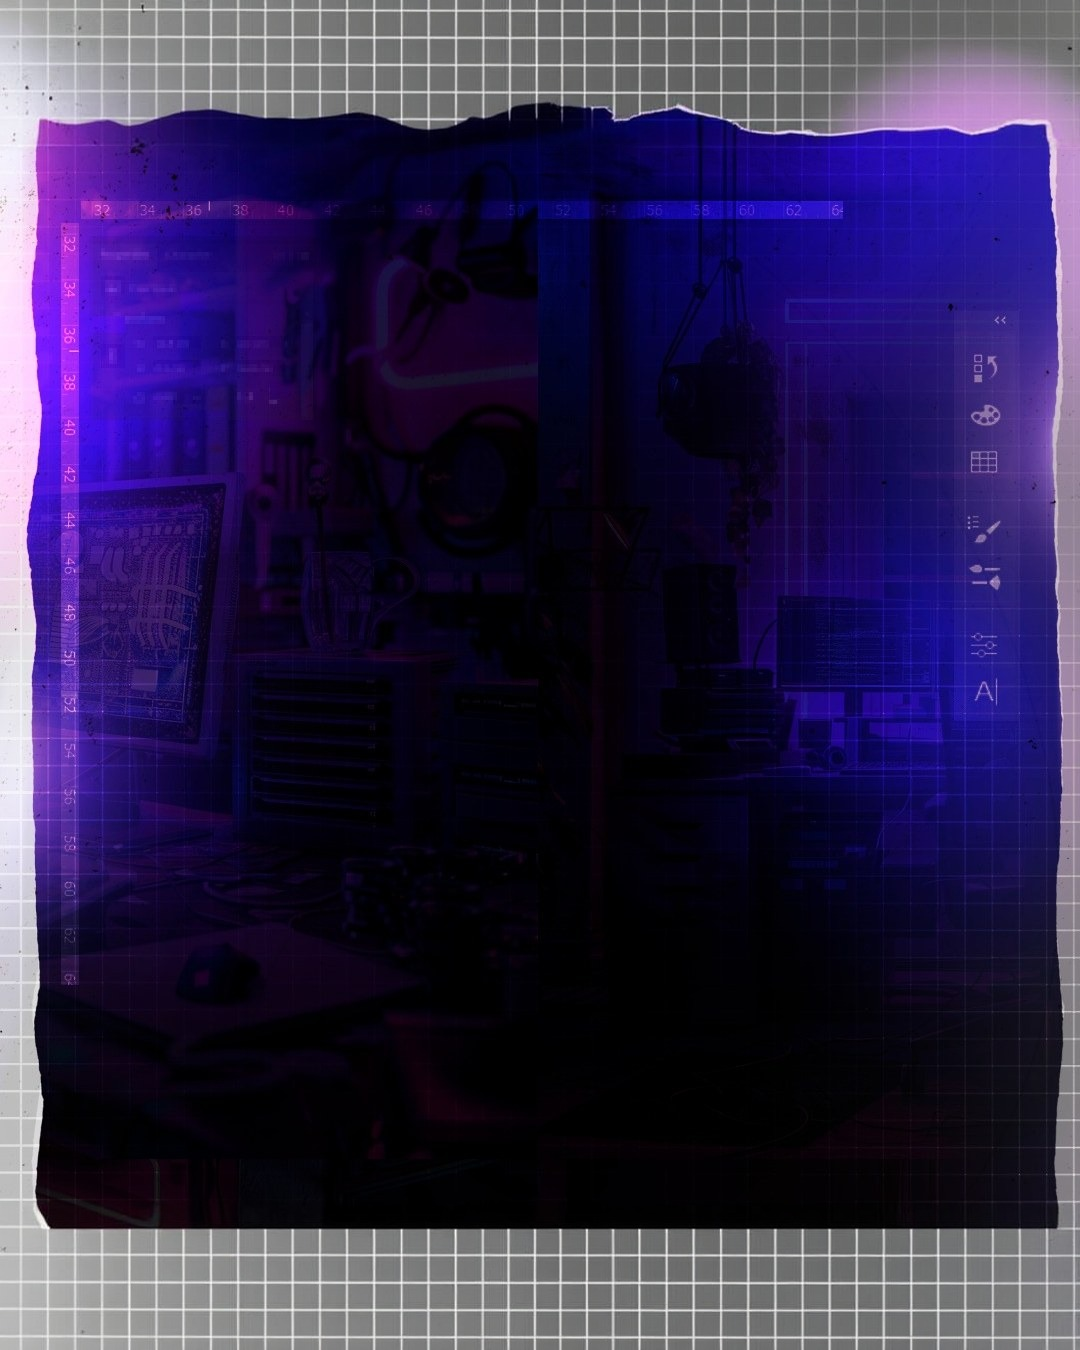
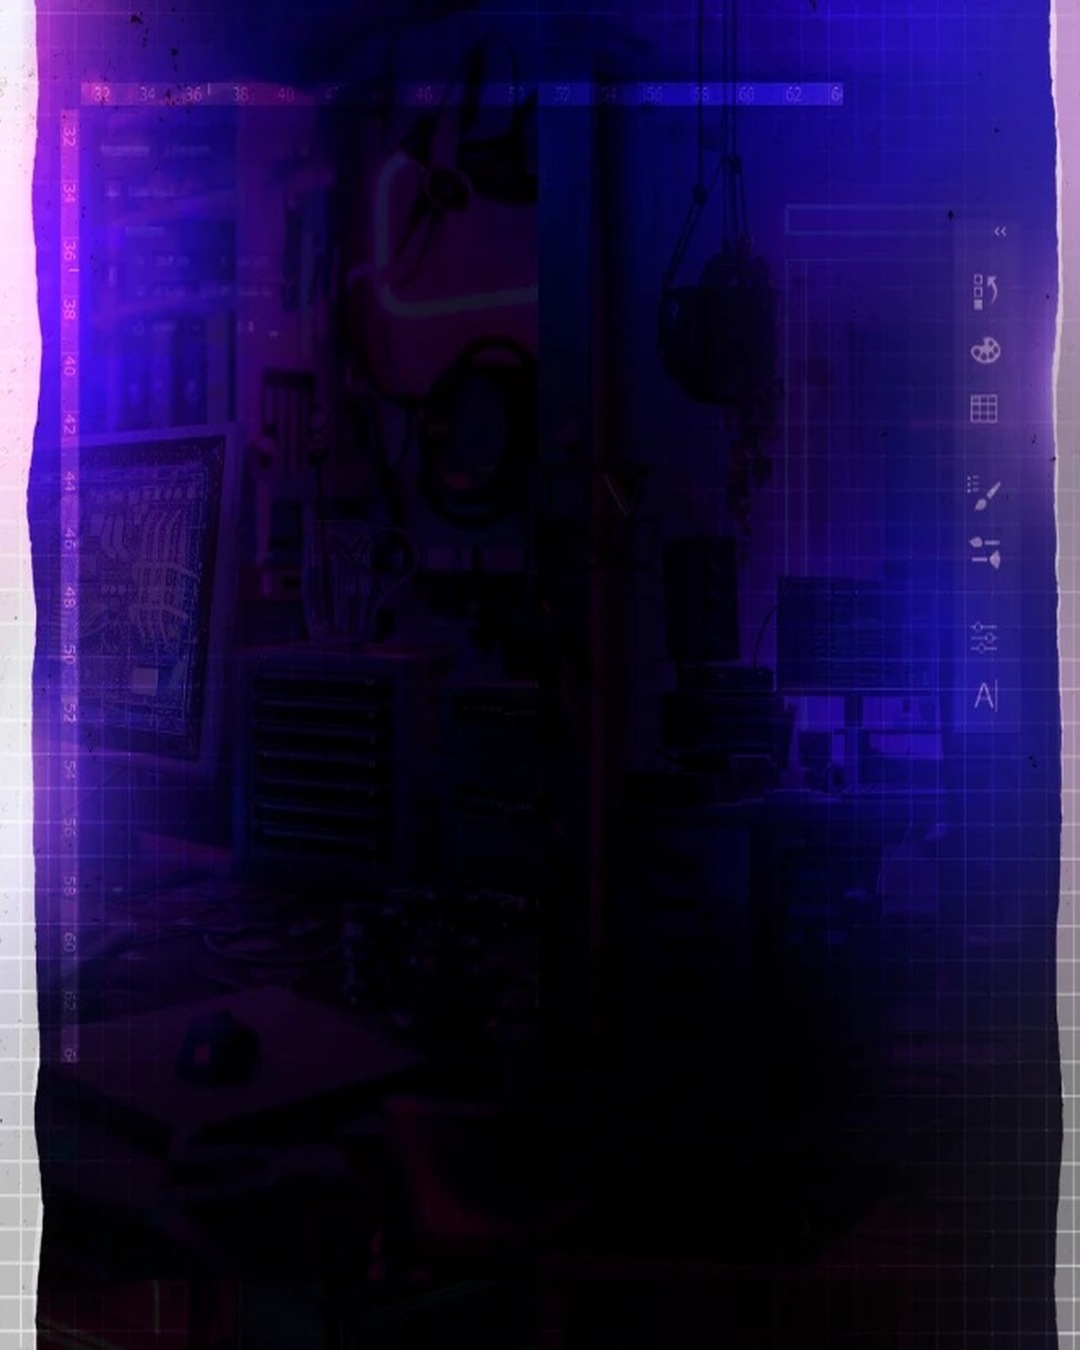
Template 9 · Identidade visual: fundo igual ao do dono (sem faixa inventada), mascote da Seguidores em Alta e atribuição a Sim Intermediações e Seguidores em Alta
- fundos 1 a 3 refeitos a partir do fundo panorâmico enviado pelo dono
- Seguidores em Alta usa o mascote no lugar do robô e do leão
- peça de template corrigida no banco agora substitui a cópia já importada na Biblioteca

Claude-Session: https://claude.ai/code/session_017mkQW885k4H9tbGerhJzi7

diff --git a/server.js b/server.js
@@ -2614,7 +2614,7 @@ const TEMPLATES_CASA = [
     seq: [{ modelo: 'erros-capa', papel: 'capa' }, { modelo: 'erros-par', repetir: true }, { modelo: 'erros-fim', papel: 'fim' }] },
   { id: 'fogo', marcas: ['Marketing Raiz'], nome: '8 · Fogo (dinheiro queimando)', nivel: 'robusto', formatos: ['carrossel'], uso: 'Carrossel de alerta sobre dinheiro perdido, erro caro ou desperdício (anúncio errado, cliente que não paga, gasto escondido): réplica aprovada do kit "Não queime seu dinheiro". Capa com fogo, título em etiquetas brancas e a palavra-explosão vermelha na faixa preta; miolo preto com até 3 itens numerados ou uma frase forte com palavra em *vermelho*; fim com a pergunta grande e o CTA. Sem rodapé de agência; arraste só na capa (decisão do dono). Os fundos e a nota queimando podem ser usados em outros carrosséis quando combinarem com o assunto.',
     seq: [{ modelo: 'fogo-capa', papel: 'capa' }, { modelo: 'fogo-lista', repetir: true }, { modelo: 'fogo-fim', papel: 'fim' }] },
-  { id: 'identidade-roxo', nome: '9 · Identidade visual (roxo)', nivel: 'robusto', formatos: ['carrossel'], uso: 'Carrossel educativo em blocos (conceito explicado em 2 a 6 tópicos curtos): réplica aprovada do kit roxo de meta-design. Capa com chamada de 2 linhas, título espaçado e palavra gigante em itálico, @ da marca e o robô roxo; miolo roxo com 2 blocos por página (título curto + texto de 5 a 7 linhas com **negrito**); fim claro com 2 blocos e a caixa tracejada do CTA. Sem ícones de curtida nem contato. Fonte do texto = a da marca.',
+  { id: 'identidade-roxo', marcas: ['Sim Intermediações', 'Seguidores em Alta'], nome: '9 · Identidade visual (roxo)', nivel: 'robusto', formatos: ['carrossel'], uso: 'Carrossel educativo em blocos (conceito explicado em 2 a 6 tópicos curtos): réplica aprovada do kit roxo de meta-design. Capa com chamada de 2 linhas, título espaçado e palavra gigante em itálico, @ da marca e o robô roxo; miolo roxo com 2 blocos por página (título curto + texto de 5 a 7 linhas com **negrito**); fim claro com 2 blocos e a caixa tracejada do CTA. Sem ícones de curtida nem contato. Fonte do texto = a da marca.',
     seq: [{ modelo: 'idv-capa', papel: 'capa' }, { modelo: 'idv-texto', repetir: true }, { modelo: 'idv-fim', papel: 'fim' }] },
   { id: 'xadrez', nome: '10 · Xadrez (mostarda)', nivel: 'robusto', formatos: ['carrossel'], uso: 'Carrossel de estratégia, segredos, jogo de mercado ou decisões (ex.: "3 segredos que ninguém te conta"): réplica aprovada do kit de agência com peças de xadrez. Capa preta com etiquetas brancas, palavra-explosão mostarda e reis 3D (foto do assunto opcional no alto); miolo bege com até 3 itens numerados ou frase forte; fim preto com prédios e a pergunta/CTA. Sem rodapé de agência; arraste só na capa. As peças de xadrez podem ir para outros carrosséis quando o assunto for estratégia.',
     seq: [{ modelo: 'xadrez-capa', papel: 'capa' }, { modelo: 'xadrez-lista', repetir: true }, { modelo: 'xadrez-fim', papel: 'fim' }] },
@@ -4680,7 +4680,10 @@ const TPL_PASTAS = { 'tpl-erros': 'Lista de erros', 'tpl-fogo': 'Fogo (dinheiro 
 for (const [pasta, rotulo] of Object.entries(TPL_PASTAS)) try {
   const dir = path.join(__dirname, 'banco', pasta);
   for (const arqN of fs.existsSync(dir) ? fs.readdirSync(dir).sort() : []) {
-    const m = arqN.match(/^(tpl-[a-z]+-[a-z0-9-]+)\.(png|jpg)$/); if (!m || one("SELECT 1 x FROM assets WHERE name=? AND brand=''", m[1])) continue;
+    const m = arqN.match(/^(tpl-[a-z]+-[a-z0-9-]+)\.(png|jpg)$/); if (!m) continue;
+    { const velho = one("SELECT id,ext,size FROM assets WHERE name=? AND brand=''", m[1]); if (velho) {   // peça já importada: se o arquivo do banco mudou (correção aprovada pelo dono), troca a cópia da Biblioteca
+      const st = fs.statSync(path.join(dir, arqN)); if (st.size !== velho.size && velho.ext === m[2]) { fs.copyFileSync(path.join(dir, arqN), path.join(ASSET_DIR, velho.id + '.' + velho.ext)); run('UPDATE assets SET size=? WHERE id=?', st.size, velho.id); }
+      continue; } }
     const [, nome, ext] = m, buf = fs.readFileSync(path.join(dir, arqN)), fundo = nome.includes('fundo');
     const r = run('INSERT INTO assets(brand,name,kind,tags,note,colecao,filename,ext,size,pasta,created_at) VALUES(?,?,?,?,?,?,?,?,?,?,?)', '', nome, fundo ? 'fundo' : 'outro', 'template, carrossel, ' + rotulo.toLowerCase(), 'Peça aprovada do template de carrossel “' + rotulo + '”. Pode ser usada em outros carrosséis quando combinar com o assunto. Não apague.', 'arte', arqN, ext, buf.length, 'Templates/' + rotulo, T());
     fs.writeFileSync(path.join(ASSET_DIR, r.lastInsertRowid + '.' + ext), buf);

diff --git a/public/arte-modelos.js b/public/arte-modelos.js
@@ -573,8 +573,9 @@ COMPOR_EXTRA['fogo-fim'] = (d, ctx) => {
 };
 
 // ───────── Template "9 · Identidade visual (roxo)" (réplica aprovada do kit roxo, 18/11/2026) ─────────
-// Kit quadrado 1080×1080 levado a 1080×1350: fundo com 135 px a mais em cima e embaixo; medidas do kit + 135 no eixo y.
-const IV = { roxo: '#7b43e2', roxoClaro: '#d6b8ff', cinza: '#555555' }, iy = v => v + 135;
+// Kit quadrado 1080×1080 levado a 1080×1350: o fundo panorâmico do dono, sem nada inventado, esticado na altura (×1,25); medidas do kit ×1,25 no eixo y.
+const IV = { roxo: '#7b43e2', roxoClaro: '#d6b8ff', cinza: '#555555' }, iy = v => v * 1.25,
+  ivPeca = (ctx, nome) => /seguidores/i.test(String(ctx.marca || '')) ? nome + '-seguidores' : nome;   // Seguidores em Alta: o mascote faz o papel do robô e do leão (dono, 19/11/2026)
 const ivBase = k => ({ bg: { asset: 'tpl-idv-fundo-' + k, color: '#ffffff' }, paper: '#ffffff', shade: 0, pager: false, fx: { grain: 0, vignette: 0 }, texts: [], items: [], shapes: [] });
 // bloco: ícone, título em 2 linhas (fonte de máquina de escrever na arte; da marca quando houver) e texto espaçado com **negrito**
 function ivBloco(s, e, it, x, y, ic, corT, corB, maxW) {
@@ -598,7 +599,7 @@ COMPOR_EXTRA['idv-capa'] = (d, ctx) => {
   s.texts.push({ role: 'title', value: t2, x: e.X(cx), y: e.Y(iy(587)), align: 'center', size: e.P(z2), font: tf.k, weight: tf.w, ls: .17, lh: 1, color: '#6a3cf0', italic: true, nowrap: true, shadow: false });
   const handle = String(d.handle || ctx.contatos?.instagram || '').trim();
   if (handle) { s.items.push({ asset: ctx.logo || ctx.avatar || 'avatar-padrao', x: e.X(368), y: e.Y(iy(830)), size: e.P(52), round: true }); s.texts.push({ role: 'label', value: handle.startsWith('@') ? handle : '@' + handle, x: e.X(410), y: e.Y(iy(830)), align: 'left', size: e.P(26), font: FK.x, weight: pesoDe(FK.x, 500), color: IV.roxo, nowrap: true, shadow: false }); }
-  s.items.push({ asset: 'tpl-idv-robo', x: F2((582 + 513) / 1080), y: F2(iy(150 + 513) / 1350), size: 1026, cruza: true });
+  s.items.push({ asset: ivPeca(ctx, 'tpl-idv-robo'), x: F2((582 + 513) / 1080), y: F2(iy(150 + 513) / 1350), size: 1026, cruza: true });
   return s;
 };
 COMPOR_EXTRA['idv-texto'] = (d, ctx) => {
@@ -606,7 +607,7 @@ COMPOR_EXTRA['idv-texto'] = (d, ctx) => {
   const e = erEsc(ctx, ctx.W, ctx.H), s = ivBase(2), it = erItens(d).slice(0, 2);
   if (it[0]) ivBloco(s, e, it[0], 262, iy(255), 'tpl-idv-icone-pincel', IV.roxoClaro, '#ffffff', 340);
   if (it[1]) ivBloco(s, e, it[1], 392, iy(585), 'tpl-idv-icone-foguete', '#ffffff', '#ffffff', 340);
-  if ((ctx.i || 0) === (ctx.total || 1) - 2) s.items.push({ asset: 'tpl-idv-leao', x: F2((636 + 540) / 1080), y: F2(iy(432 + 540) / 1350), size: 1080, cruza: true });   // o leão entra no fim, como no original
+  if ((ctx.i || 0) === (ctx.total || 1) - 2) s.items.push({ asset: ivPeca(ctx, 'tpl-idv-leao'), x: F2((636 + 540) / 1080), y: F2(iy(432 + 540) / 1350), size: 1080, cruza: true });   // o leão entra no fim, como no original
   return s;
 };
 COMPOR_EXTRA['idv-fim'] = (d, ctx) => {

diff --git a/conhecimento/agentes/designer/14-carrossel-template-identidade-roxo.md b/conhecimento/agentes/designer/14-carrossel-template-identidade-roxo.md
@@ -19,4 +19,5 @@ Carrossel educativo em blocos: um conceito explicado em 2 a 6 tópicos curtos.
 
 ## Visual fixo
 - Roxo `#7b43e2`. O robô já vem tingido de rosa-roxo como na arte original.
-- Peças em `banco/tpl-idv/`: fundos 1 a 3 (kit 1080×1080 levado a 1080×1350), robô, leão e ícones.
+- Peças em `banco/tpl-idv/`: fundos 1 a 3 = o fundo panorâmico do dono (`referencia/fundo-panorama.jpg`) cortado em 3 e esticado na altura para 1080×1350, sem nada inventado em cima ou embaixo (dono, 19/11/2026: nada de faixa cinza ou borda que não existe na arte); robô, leão e ícones. Arte de referência em `referencia/arte-final.jpg`.
+- Seguidores em Alta: `tpl-idv-robo-seguidores` e `tpl-idv-leao-seguidores` (mascote no busto de perfil e sentado na poltrona, replicando os elementos).

diff --git a/conhecimento/agentes/designer/23-templates-por-marca.md b/conhecimento/agentes/designer/23-templates-por-marca.md
@@ -13,5 +13,6 @@ Marcas institucionais (Atlas Hosting, SimIntPay, Sim Intermediações, Teron, Pa
 | 5 · Manchete com perfil | Seguidores em Alta, Marketing Raiz |
 | 7 · Lista de erros (carrossel) | Seguidores em Alta |
 | 8 · Fogo (carrossel) | Marketing Raiz |
+| 9 · Identidade visual (carrossel) | Sim Intermediações (robô e leão originais), Seguidores em Alta (o mascote no lugar do robô e do leão, mesma pose e enquadramento) |
 
 Excluído pelo dono (19/11/2026): 6 · Manchete sobre foto com logo (ficava igual ao 5). Formatos de notícia: Zyrion (foto inteira, duas fotos ou círculo), Nuvo, Manchete com perfil; contracapa (cartão do X) acompanha Zyrion e Nuvo.
